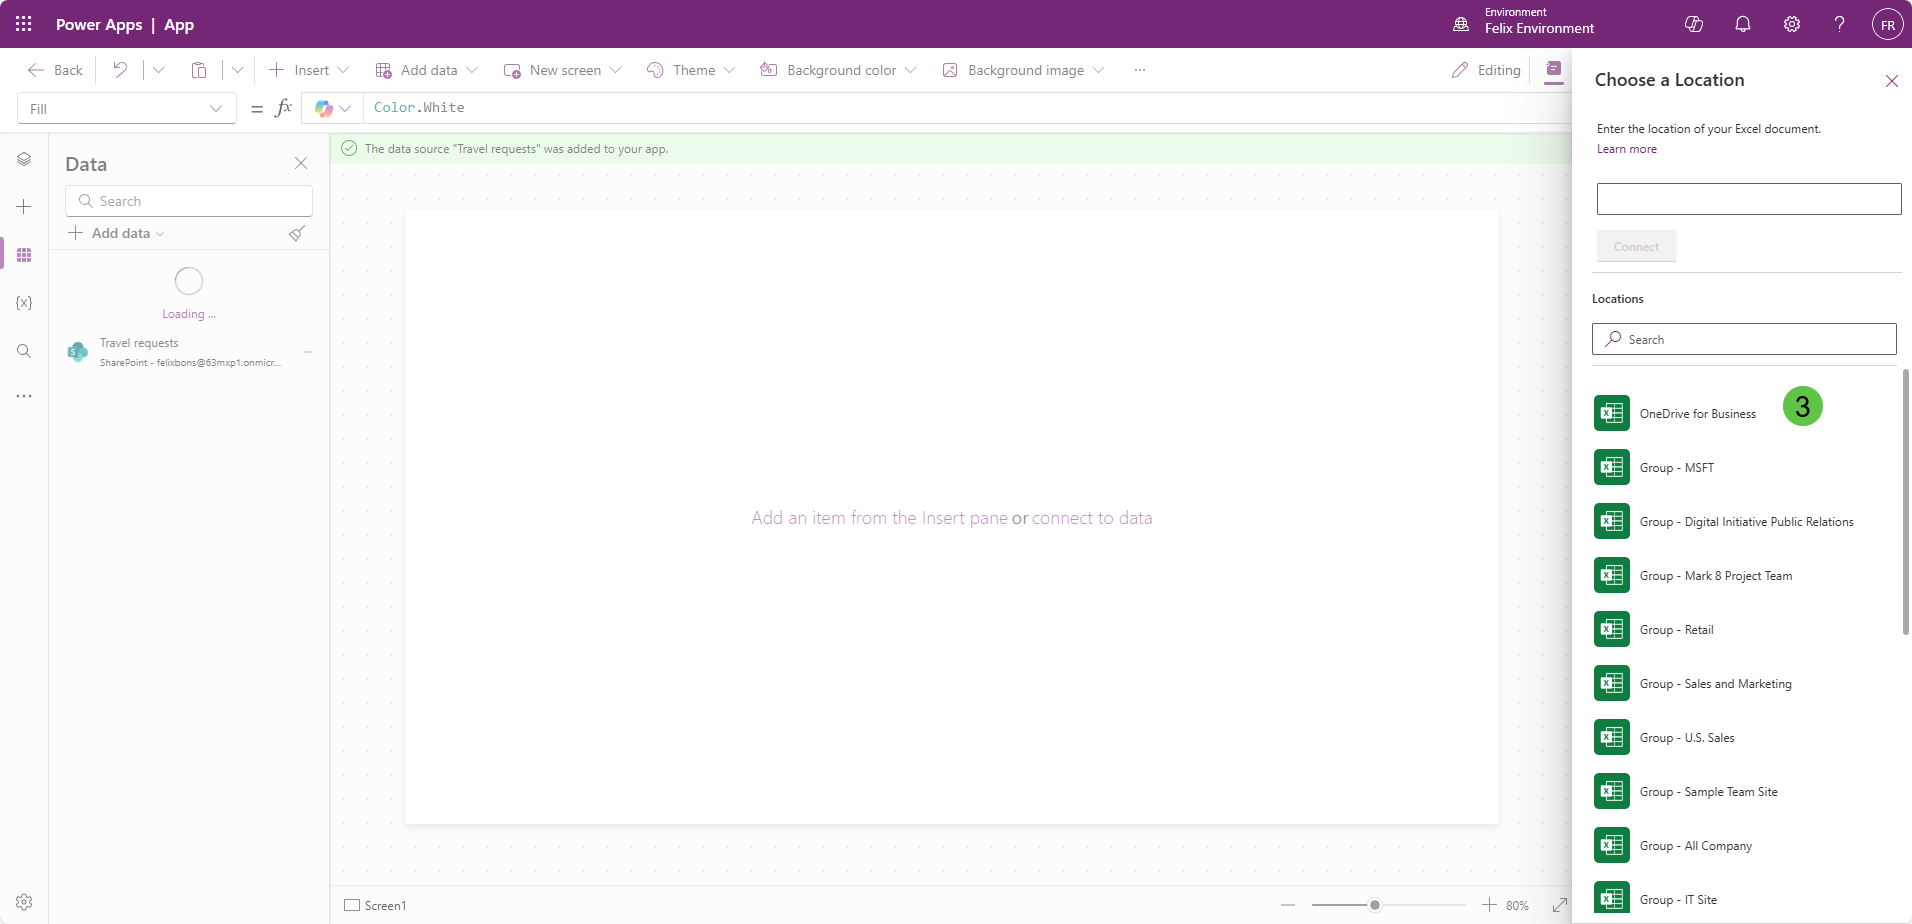
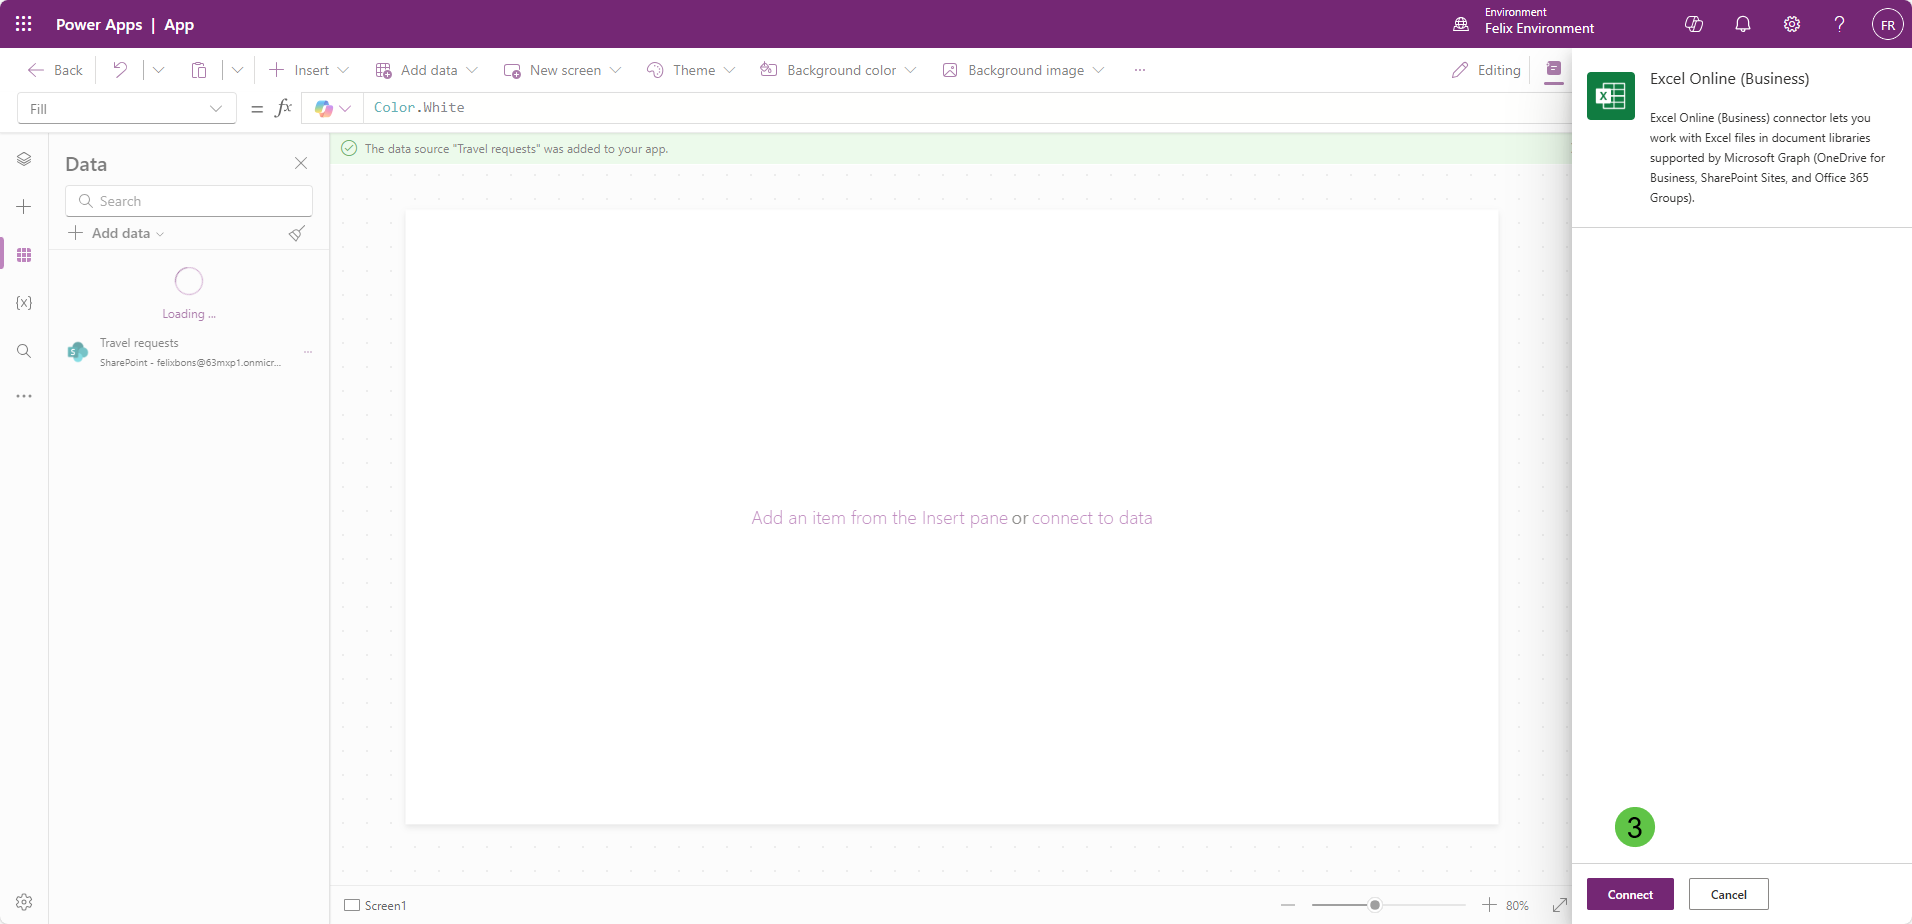
Update Day 5 with images

diff --git a/PowerPlatform/Power Platform 30 days/Day05.md b/PowerPlatform/Power Platform 30 days/Day05.md
@@ -43,9 +43,8 @@ In this session, you’ll learn how connectors work, when to use each, and how t
 ### ✅ Step 3: Add an Excel Connector (Stored in OneDrive)
 
 1. From the **Data** panel, click **+ Add data**
-![Data and Add Data](/PowerPlatform/assets/PowerPlatform30days/Day5/NextSteps/Step3_1.png)
 2. Search for **Excel Online (Business)** or **OneDrive for Business**
-![Data and Add Data](/PowerPlatform/assets/PowerPlatform30days/Day5/NextSteps/Step3_2.png)
+![Data and Add Data](/PowerPlatform/assets/PowerPlatform30days/Day5/NextSteps/Step3_1_2.png)
 3. Sign in to your OneDrive account
 ![Data and Add Data](/PowerPlatform/assets/PowerPlatform30days/Day5/NextSteps/Step3_3.png)
 4. Choose a Location in OneDrive for Business
